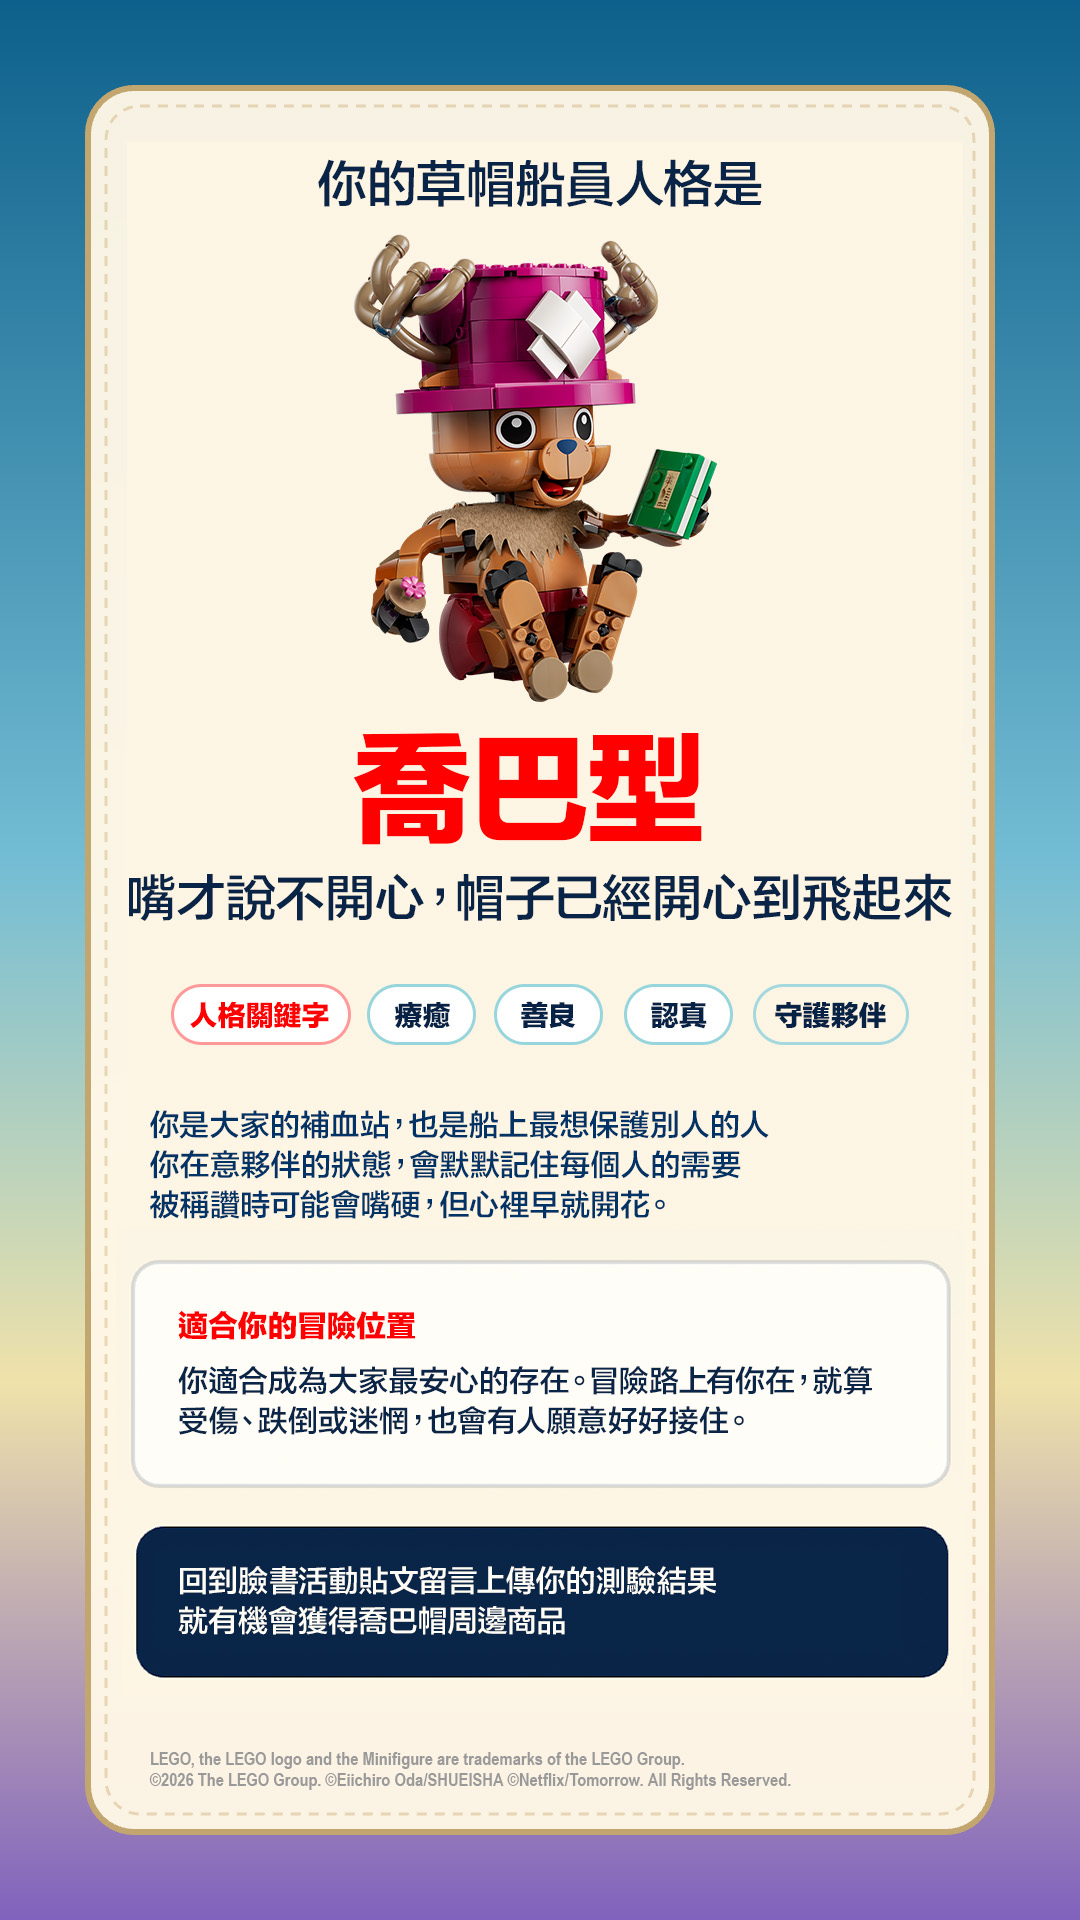
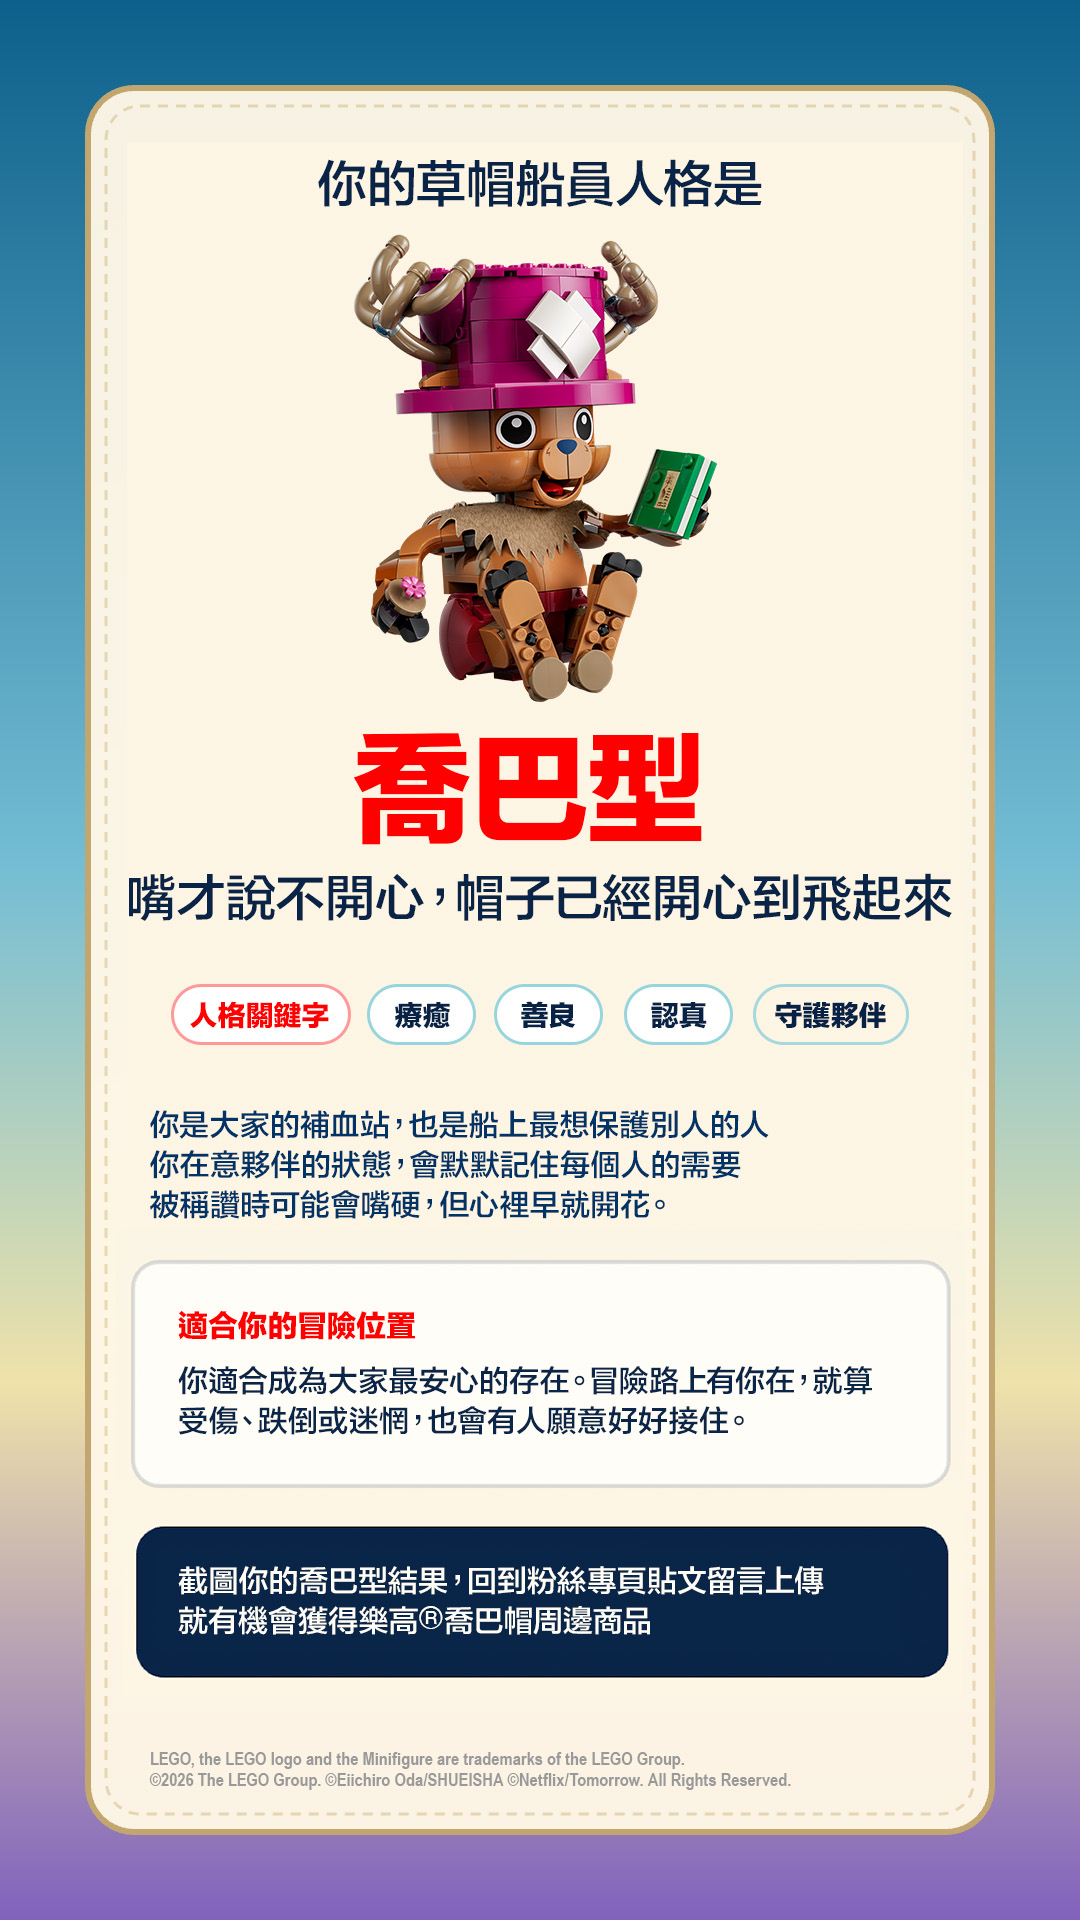
文案修改

Changed region(s): [[0.1528, 0.8125, 0.7639, 0.875]]

diff --git a/script.js b/script.js
@@ -8,15 +8,15 @@ const questions = [
   { q:"面對強敵，你的第一反應是？", a:[["luffy","好像很好玩，開打吧"],["zoro","看起來值得一戰"],["nami","先分析弱點，不要硬衝"],["sanji","不能讓重要的人受傷"],["usopp","我們是不是可以先談談，或假裝不在"],["chopper","大家退後，我先看誰需要治療"]]},
   { q:"朋友最常怎麼形容你？", a:[["luffy","熱血到有點不可思議"],["zoro","安靜但很可靠"],["nami","聰明、現實，懂得掌控狀況"],["sanji","很會照顧人，也很有品味"],["usopp","很會講，腦洞也很多"],["chopper","很暖，被誇會害羞"]]},
   { q:"你最受不了哪種狀況？", a:[["luffy","夥伴被欺負"],["zoro","自己不夠強"],["nami","計畫失控又沒人處理"],["sanji","浪費食物或不尊重人"],["usopp","大家叫我第一個衝"],["chopper","重要的人受傷卻逞強"]]},
-  { q:"抽到喬巴帽周邊商品時，你會？", a:[["luffy","戴上去大喊出航"],["zoro","看起來不錯，默默收好"],["nami","先拍照，再提醒大家留言參加"],["sanji","戴得很帥，拍一張最有氛圍的"],["usopp","說這是我偉大船員的證明"],["chopper","嘴上說才沒有開心，其實超開心"]]}
+  { q:"抽到樂高®喬巴帽周邊商品時，你會？", a:[["luffy","戴上去大喊出航"],["zoro","看起來不錯，默默收好"],["nami","先拍照，再提醒大家留言參加"],["sanji","戴得很帥，拍一張最有氛圍的"],["usopp","說這是我偉大船員的證明"],["chopper","嘴上說才沒有開心，其實超開心"]]}
 ];
 const results={
-  luffy:{icon:"🍖",title:"魯夫型",subtitle:"夢想比海還大，肚子也差不多。",keywords:["熱血","自由","直覺","夥伴優先"],description:"你是船上最像太陽的人。遇到困難不會先想退路，而是先問：可以開打了嗎？你相信夢想，也相信夥伴，只要是想守護的人，就算前方是偉大航道也照樣衝。",position:"你適合站在船頭，喊出大家不敢說出口的夢想。有你在，冒險就不只是目的地，而是一場讓人想跟上的旅程。",products:[["主推盒組","75647 橡膠果實","你的夢想不只是說說而已，是從吃下那顆果實的瞬間開始改變航線。"],["延伸推薦","75642 決戰斯摩格上校","想把冒險推進到熱血對決，就從羅格鎮開始。"]]},
-  zoro:{icon:"⚔",title:"索隆型",subtitle:"路可以走錯，信念不能偏航。",keywords:["專注","可靠","冷靜","修練派"],description:"你不太愛說漂亮話，但答應的事一定做到。你習慣默默變強，也常常成為團隊最穩的後盾。缺點是偶爾會走錯路，不過沒關係，氣勢有到就好。",position:"你適合成為團隊裡最穩的戰力。話不用多，站出來的那一刻，大家就知道可以放心了。",products:[["主推盒組","75644 多利 vs. 布洛基－小花園的巨人","硬派對決與巨大戰場，最適合專注戰鬥與修練的你。"],["延伸推薦","75646 卡普的海軍戰艦","想把戰鬥格局拉到海上，就登上更大的戰場。"]]},
-  nami:{icon:"🧭",title:"娜美型",subtitle:"偉大航道也要先看預算跟地圖。",keywords:["聰明","務實","觀察力強","掌控全局"],description:"你不是衝第一個的人，但你永遠知道大家該往哪裡走。你精準判斷風向，也懂得把混亂整理成計畫。沒有你，這艘船大概三天就會迷路兼破產。",position:"你適合掌握航線與節奏。當大家熱血過頭時，你就是那個把冒險拉回正軌的人。",products:[["主推盒組","75646 卡普的海軍戰艦","大船、航線與全局判斷，最適合懂得掌握方向的你。"],["延伸推薦","75645 磁鼓城之戰","想挑戰更高難度的戰場，就把策略帶進雪山。"]]},
-  sanji:{icon:"🔥",title:"香吉士型",subtitle:"帥氣不是人設，是基本禮貌。",keywords:["浪漫","講究","體貼","帥氣救場"],description:"你是團隊裡最會照顧氣氛的人。外表可能瀟灑，內心其實很柔軟。你相信品味，也相信重要的人值得被好好對待。必要時，踢出去的不只是敵人，還有壞心情。",position:"你適合成為團隊裡的氣氛守護者。有你在，冒險不只熱血，還要有品味。",products:[["主推盒組","75642 決戰斯摩格上校","帥氣救場與正面對決，最適合講究登場時機的你。"],["延伸推薦","75645 磁鼓城之戰","想讓守護夥伴的氣勢升級，就前進磁鼓城。"]]},
-  usopp:{icon:"🎯",title:"騙人布型",subtitle:"怕歸怕，關鍵時刻還是超可靠。",keywords:["想像力","臨場反應","嘴砲力","關鍵救援"],description:"你可能會先緊張、先吐槽、先說事情不妙，但最後還是會站出來。你的腦袋永遠有奇招，嘴上說不要，身體卻很誠實地幫大家解危。",position:"你適合在大家以為沒辦法的時候，突然拿出一個超乎預期的解法。你的厲害，常常要到最後一刻才會被看見。",products:[["主推盒組","75644 多利 vs. 布洛基－小花園的巨人","巨人戰場加上奇招變化，最適合腦洞很多的你。"],["延伸推薦","75646 卡普的海軍戰艦","想把想像力搬到大船上，就從這艘戰艦開始。"]]},
-  chopper:{icon:"💙",title:"喬巴型",subtitle:"嘴上說才不開心，帽子已經開心到飛起來。",keywords:["療癒","善良","認真","守護夥伴"],description:"你是大家的補血站，也是船上最想保護別人的人。你在意夥伴的狀態，會默默記住每個人的需要。被稱讚時可能會嘴硬，但心裡早就開花。",position:"你適合成為大家最安心的存在。冒險路上有你在，就算受傷、跌倒或迷惘，也會有人願意好好接住。",products:[["主推盒組","75643 多尼多尼喬巴","最適合療癒又認真的你，把喬巴的可愛與守護力一起收藏。"],["延伸推薦","75641 Dr. 西爾爾克的藏身處","想收藏喬巴故事的起點，就走進那座雪山裡的溫暖藏身處。"]]}
+  luffy:{icon:"🍖",title:"魯夫型",subtitle:"夢想比海還大，肚子也差不多",keywords:["熱血","自由","直覺","夥伴優先"],description:"你是船上最像太陽的人。遇到困難不會先想退路，而是先問：可以開打了嗎？你相信夢想，也相信夥伴，只要是想守護的人，就算前方是偉大航道也照樣衝。",position:"你適合站在船頭，喊出大家不敢說出口的夢想。有你在，冒險就不只是目的地，而是一場讓人想跟上的旅程。",products:[["主推盒組","75647 橡膠果實","你的夢想不只是說說而已，是從吃下那顆果實的瞬間開始改變航線。"],["延伸推薦","75642 決戰斯摩格上校","想把冒險推進到熱血對決，就從羅格鎮開始。"]]},
+  zoro:{icon:"⚔",title:"索隆型",subtitle:"路可以走錯，信念不能偏航",keywords:["專注","可靠","冷靜","修練派"],description:"你不太愛說漂亮話，但答應的事一定做到。你習慣默默變強，也常常成為團隊最穩的後盾。缺點是偶爾會走錯路，不過沒關係，氣勢有到就好。",position:"你適合成為團隊裡最穩的戰力。話不用多，站出來的那一刻，大家就知道可以放心了。",products:[["主推盒組","75644 多利 vs. 布洛基－小花園的巨人","硬派對決與巨大戰場，最適合專注戰鬥與修練的你。"],["延伸推薦","75646 卡普的海軍戰艦","想把戰鬥格局拉到海上，就登上更大的戰場。"]]},
+  nami:{icon:"🧭",title:"娜美型",subtitle:"偉大航道也要先看預算跟地圖",keywords:["聰明","務實","觀察力強","掌控全局"],description:"你不是衝第一個的人，但你永遠知道大家該往哪裡走。你精準判斷風向，也懂得把混亂整理成計畫。沒有你，這艘船大概三天就會迷路兼破產。",position:"你適合掌握航線與節奏。當大家熱血過頭時，你就是那個把冒險拉回正軌的人。",products:[["主推盒組","75646 卡普的海軍戰艦","大船、航線與全局判斷，最適合懂得掌握方向的你。"],["延伸推薦","75645 磁鼓城之戰","想挑戰更高難度的戰場，就把策略帶進雪山。"]]},
+  sanji:{icon:"🔥",title:"香吉士型",subtitle:"帥氣不是人設，是基本禮貌",keywords:["浪漫","講究","體貼","帥氣救場"],description:"你是團隊裡最會照顧氣氛的人。外表可能瀟灑，內心其實很柔軟。你相信品味，也相信重要的人值得被好好對待。必要時，踢出去的不只是敵人，還有壞心情。",position:"你適合成為團隊裡的氣氛守護者。有你在，冒險不只熱血，還要有品味。",products:[["主推盒組","75642 決戰斯摩格上校","帥氣救場與正面對決，最適合講究登場時機的你。"],["延伸推薦","75645 磁鼓城之戰","想讓守護夥伴的氣勢升級，就前進磁鼓城。"]]},
+  usopp:{icon:"🎯",title:"騙人布型",subtitle:"怕歸怕，關鍵時刻還是超可靠",keywords:["想像力","臨場反應","嘴砲力","關鍵救援"],description:"你可能會先緊張、先吐槽、先說事情不妙，但最後還是會站出來。你的腦袋永遠有奇招，嘴上說不要，身體卻很誠實地幫大家解危。",position:"你適合在大家以為沒辦法的時候，突然拿出一個超乎預期的解法。你的厲害，常常要到最後一刻才會被看見。",products:[["主推盒組","75644 多利 vs. 布洛基－小花園的巨人","巨人戰場加上奇招變化，最適合腦洞很多的你。"],["延伸推薦","75646 卡普的海軍戰艦","想把想像力搬到大船上，就從這艘戰艦開始。"]]},
+  chopper:{icon:"💙",title:"喬巴型",subtitle:"嘴上說才不開心，帽子已經開心到飛起來",keywords:["療癒","善良","認真","守護夥伴"],description:"你是大家的補血站，也是船上最想保護別人的人。你在意夥伴的狀態，會默默記住每個人的需要。被稱讚時可能會嘴硬，但心裡早就開花。",position:"你適合成為大家最安心的存在。冒險路上有你在，就算受傷、跌倒或迷惘，也會有人願意好好接住。",products:[["主推盒組","75643 多尼多尼喬巴","最適合療癒又認真的你，把喬巴的可愛與守護力一起收藏。"],["延伸推薦","75641 Dr. 西爾爾克的藏身處","想收藏喬巴故事的起點，就走進那座雪山裡的溫暖藏身處。"]]}
 };
 
 const RESULT_ART = {
@@ -63,6 +63,10 @@ function renderResult(){
   $('#result-description').textContent=r.description;
   $('#result-position').textContent=r.position;
   $('#result-keywords').innerHTML=['<span class="keyword-label">人格關鍵字</span>',...r.keywords.map(k=>`<span>${k}</span>`)].join('');
+  const shareNote = $('#result-share-note');
+  if(shareNote){
+    shareNote.textContent = `截圖你的${r.title}結果，回到粉絲專頁貼文留言上傳，就有機會獲得樂高®喬巴帽周邊商品`;
+  }
   const downloadLink = $('#download-btn');
   if(downloadLink && DOWNLOAD_RESULT_FILES[key]){
     downloadLink.href = DOWNLOAD_RESULT_FILES[key].src;

diff --git a/index.html b/index.html
@@ -83,7 +83,7 @@
             <span>適合你的冒險位置</span>
             <p id="result-position"></p>
           </div>
-          <p class="share-note">截圖或下載你的結果頁，回到臉書活動貼文留言上傳，就有機會獲得樂高®喬巴帽！</p>
+          <p class="share-note" id="result-share-note">截圖你的娜美型結果，回到粉絲專頁貼文留言上傳，就有機會獲得樂高®喬巴帽周邊商品</p>
         </article>
         <div class="result-actions">
           <a class="primary-btn" id="download-btn" href="./img/result-nami-final.jpg" target="_blank" rel="noopener">下載結果圖</a>

diff --git a/README.md b/README.md
@@ -138,3 +138,16 @@
 
 - 首頁角色圖與內容框上方間距縮小 50%。
 - 其他內容維持上一版不變。
+
+- 題目 Q8 文案更新為：抽到樂高®喬巴帽周邊商品時，你會？
+- 其他內容不變。
+
+- 6 個結果頁底部分享文案改為依照結果名稱動態顯示：
+  「截圖你的_____型結果，回到粉絲專頁貼文留言上傳，就有機會獲得樂高®喬巴帽周邊商品」
+- 其餘內容維持不變。
+
+- 香吉士型副標「帥氣不是人設，是基本禮貌。」移除句號，其他內容不變。
+
+- 其餘五個結果頁副標句尾句號已移除（魯夫、索隆、娜美、騙人布、喬巴），其他內容不變。
+
+- 已更新 6 張「下載結果頁」JPG，改為使用最新提供的結果頁版本（騙人布 / 娜美 / 魯夫 / 喬巴 / 香吉士 / 索隆）。
